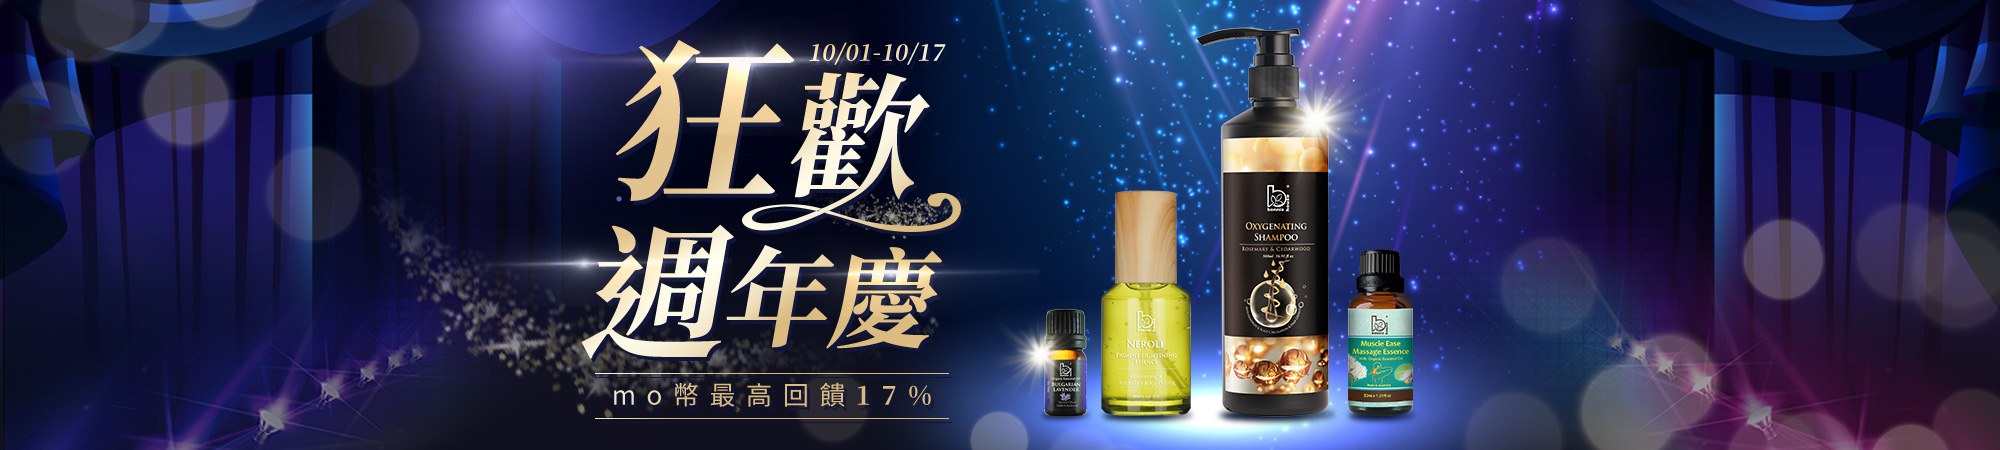
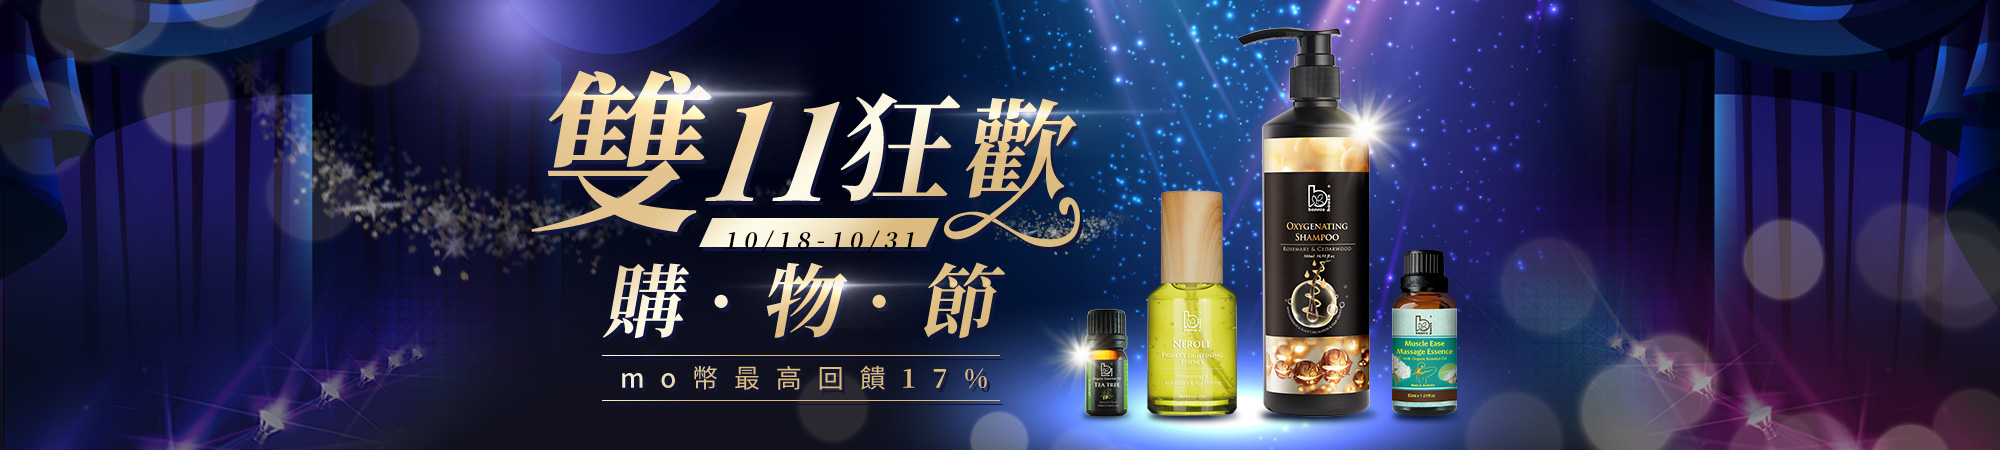
Add files via upload

Changed region(s): [[0.124, 0.0622, 0.744, 0.9644]]

diff --git a/index.html b/index.html
@@ -91,19 +91,19 @@
   <a id="list_A"></a>
   <div class="momostyle_edm_main edm_main_a momostyle_edm_all">
   <ul>
-      <li><a href="https://www.momoshop.com.tw/goods/GoodsDetail.jsp?i_code=5872166" target="_blank"><img src="images/main_a_01.png" alt=""></a></li>
+      <li><a href="https://www.momoshop.com.tw/goods/GoodsDetail.jsp?i_code=7638054" target="_blank"><img src="images/main_a_01.png" alt=""></a></li>
       <li><a href="https://www.momoshop.com.tw/goods/GoodsDetail.jsp?i_code=5775767" target="_blank"><img src="images/main_a_02.png" alt=""></a></li>
       <li><a href="https://www.momoshop.com.tw/goods/GoodsDetail.jsp?i_code=13554375" target="_blank"><img src="images/main_a_03.png" alt=""></a></li>
       <li><a href="https://www.momoshop.com.tw/goods/GoodsDetail.jsp?i_code=8970188" target="_blank"><img src="images/main_a_04.png" alt=""></a></li>
       <li><a href="https://www.momoshop.com.tw/goods/GoodsDetail.jsp?i_code=13702676" target="_blank"><img src="images/main_a_05.png" alt=""></a></li>
-      <li><a href="https://www.momoshop.com.tw/goods/GoodsDetail.jsp?i_code=13351875" target="_blank"><img src="images/main_a_06.png" alt=""></a></li>
+      <li><a href="https://www.momoshop.com.tw/goods/GoodsDetail.jsp?i_code=7245470" target="_blank"><img src="images/main_a_06.png" alt=""></a></li>
 	  <li><a href="https://www.momoshop.com.tw/goods/GoodsDetail.jsp?i_code=11062594" target="_blank"><img src="images/main_a_07.png" alt=""></a></li>
       <li><a href="https://www.momoshop.com.tw/goods/GoodsDetail.jsp?i_code=7074487" target="_blank"><img src="images/main_a_08.png" alt=""></a></li>	
   </ul>
   <div class="main_bar momostyle_edm_all"><img src="images/BAR_03.png" alt=""></div>
   <ul>
       <li><a href="https://www.momoshop.com.tw/goods/GoodsDetail.jsp?i_code=13486887" target="_blank"><img src="images/main_b_01.png" alt=""></a></li>
-      <li><a href="https://www.momoshop.com.tw/goods/GoodsDetail.jsp?i_code=10489837" target="_blank"><img src="images/main_b_02.png" alt=""></a></li>     
+      <li><a href="https://www.momoshop.com.tw/goods/GoodsDetail.jsp?i_code=12995828" target="_blank"><img src="images/main_b_02.png" alt=""></a></li>     
   </ul>
   </div>  
     
@@ -123,7 +123,7 @@
   <div class="momostyle_edm_list edm_list_b momostyle_edm_all">
   <ul>
       <li><a href="https://www.momoshop.com.tw/goods/GoodsDetail.jsp?i_code=8225150" target="_blank"><img src="images/list_b_01.jpg" alt=""></a></li>
-      <li><a href="https://www.momoshop.com.tw/goods/GoodsDetail.jsp?i_code=7740527" target="_blank"><img src="images/list_b_02.jpg" alt=""></a></li>
+      <li><a href="https://www.momoshop.com.tw/goods/GoodsDetail.jsp?i_code=6215412" target="_blank"><img src="images/list_b_02.jpg" alt=""></a></li>
       <li><a href="https://www.momoshop.com.tw/goods/GoodsDetail.jsp?i_code=12730581" target="_blank"><img src="images/list_b_03.jpg" alt=""></a></li>
   </ul>
   </div>
@@ -133,7 +133,7 @@
   <div class="edm_list_bn"><img src="images/list_c_bn.jpg" alt=""></div>
   <div class="momostyle_edm_list edm_list_c momostyle_edm_all">
   <ul>
-      <li><a href="https://www.momoshop.com.tw/goods/GoodsDetail.jsp?i_code=缺品號" target="_blank"><img src="images/list_c_01.jpg" alt=""></a></li>
+      <li><a href="https://www.momoshop.com.tw/goods/GoodsDetail.jsp?i_code=14482974" target="_blank"><img src="images/list_c_01.jpg" alt="">14482974</a></li>
       <li><a href="https://www.momoshop.com.tw/goods/GoodsDetail.jsp?i_code=11381803" target="_blank"><img src="images/list_c_02.jpg" alt=""></a></li>
       <li><a href="https://www.momoshop.com.tw/goods/GoodsDetail.jsp?i_code=10350644" target="_blank"><img src="images/list_c_03.jpg" alt=""></a></li>
   </ul>	  
